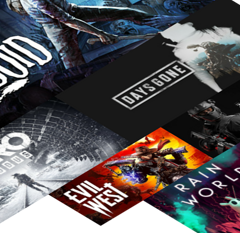
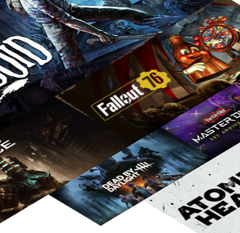
Finished Carousel/Fixed Navbar to bottom
Added images and gradients to carousel. Also touched up bottom navbar and added text to the browse steam menu

diff --git a/src/app/Carousels/carouselone/carouselone.component.html b/src/app/Carousels/carouselone/carouselone.component.html
@@ -1,93 +1,93 @@
-<div id="carouselExampleControls" class="carousel slide" data-ride="carousel">
+<div id="carouselExampleControls" class="carousel slide" data-ride="carousel" style="margin-bottom: 500px;">
     <div class="carousel-inner">
       <div class="carousel-item active" >
-        <button class="btn red-gradient first-inner border-0">
+        <button class="btn first-inner border-0" style="background-image: linear-gradient(0deg,#840304,transparent);">
+            Anime
+            <img class="d-block w-100" src="assets/anime.png" >
+        </button>
+        <button class="btn second-inner border-0" style="background-image: linear-gradient(0deg,#010189,transparent);">
+            Puzzle
+            <img class="d-block w-100" src="assets/puzzle.png">
+        </button>
+        <button class="btn third-inner border-0" style="background-image: linear-gradient(0deg,#b6850b,transparent);">
+          Free to Play
+          <img class="d-block w-100" src="assets/freetoplay.png" >
+        </button>
+        <button class="btn fourth-inner border-0" style="background-image: linear-gradient(0deg,#006401,transparent);">
+          City & Settlement
+          <img class="d-block w-100" src="assets/strategy_cities_settlements.png">
+        </button>
+      </div>
+      <div class="carousel-item" >
+        <button class="btn first-inner border-0" style="background-image: linear-gradient(0deg,#018788,transparent);">
+            Role-Playing
+            <img class="d-block w-100" src="assets/rpg.png">
+        </button>
+        <button class="btn second-inner border-0" style="background-image: linear-gradient(0deg,#840386 ,transparent);">
+            Sci-fi & Cyberpunk
+            <img class="d-block w-100" src="assets/science_fiction.png">
+        </button>
+        <button class="btn third-inner border-0" style="background-image: linear-gradient(0deg,#da8504 ,transparent);">
+          Survival
+          <img class="d-block w-100" src="assets/survival.png">
+        </button>
+        <button class="btn fourth-inner border-0" style="background-image: linear-gradient(0deg,#820304,transparent);">
+          Story-Rich
+          <img class="d-block w-100" src="assets/story_rich.png">
+        </button>
+      </div>
+      <div class="carousel-item" >
+        <button class="btn first-inner border-0" style="background-image: linear-gradient(0deg, #020385, transparent);">
+            Horror
+            <img class="d-block w-100" src="assets/horror.png">
+        </button>
+        <button class="btn second-inner border-0" style="background-image: linear-gradient(0deg, #AD800f, transparent);">
+            Virtual Reality Titles
+            <img class="d-block w-100" src="assets/vr.png">
+        </button>
+        <button class="btn third-inner border-0" style="background-image: linear-gradient(0deg, #020385, transparent);">
+          All Sports
+          <img class="d-block w-100" src="assets/sports.png">
+        </button>
+        <button class="btn fourth-inner border-0" style="background-image: linear-gradient(0deg, #026004, transparent);">
+          Strategy
+          <img class="d-block w-100" src="assets/strategy.png">
+        </button>
+      </div>
+      <div class="carousel-item" >
+        <button class="btn first-inner border-0" style="background-image: linear-gradient(0deg, #890189, transparent);">
+            Great On Deck
+            <img class="d-block w-100" src="assets/greatondeck.png">
+        </button>
+        <button class="btn second-inner border-0" style="background-image: linear-gradient(0deg, #e18802, transparent);">
             Simulation
-            <img class="d-block w-100" src="assets/">
+            <img class="d-block w-100" src="assets/simulation.png">
         </button>
-        <button class="btn blue-gradient second-inner border-0">
-            Rogue-Like
-            <img class="d-block w-100" src="assets/">
+        <button class="btn third-inner border-0" style="background-image: linear-gradient(0deg, #860102, transparent);">
+          Rogue-Like
+          <img class="d-block w-100" src="assets/rogue_like_rogue_lite.png">
         </button>
-        <button class="btn yellow-gradient third-inner border-0">
-          Co-operative
-          <img class="d-block w-100" src="assets/">
-        </button>
-        <button class="btn green-gradient fourth-inner border-0">
-          Horror
-          <img class="d-block w-100" src="assets/">
+        <button class="btn fourth-inner border-0" style="background-image: linear-gradient(0deg, #010286, transparent);">
+          Adventure
+          <img class="d-block w-100" src="assets/adventure.png">
         </button>
       </div>
       <div class="carousel-item" >
-        <button class="btn first-inner">
-            Horror
-            <img class="d-block w-100" src="assets/">
+        <button class="btn first-inner border-0" style="background-image: linear-gradient(0deg, #B5840B, transparent);">
+            Fighting
+            <img class="d-block w-100" src="assets/fighting_martial_arts.png">
         </button>
-        <button class="btn second-inner">
-            Visual Novel
-            <img class="d-block w-100" src="assets/">
+        <button class="btn second-inner border-0" style="background-image: linear-gradient(0deg, #016203, transparent);">
+            Open World
+            <img class="d-block w-100" src="assets/exploration_open_world.png" >
         </button>
-        <button class="btn third-inner">
-          All Sports
-          <img class="d-block w-100" src="assets/">
+        <button class="btn third-inner border-0" style="background-image: linear-gradient(0deg, #018687, transparent);">
+          Action
+          <img class="d-block w-100" src="assets/action.png">
         </button>
-        <button class="btn fourth-inner">
-          Puzzle
-          <img class="d-block w-100" src="assets/">
-        </button>
-      </div>
-      <div class="carousel-item" >
-        <button class="btn first-inner">
-            Horror
-            <img class="d-block w-100" src="assets/">
-        </button>
-        <button class="btn second-inner">
-            Visual Novel
-            <img class="d-block w-100" src="assets/">
-        </button>
-        <button class="btn third-inner">
-          All Sports
-          <img class="d-block w-100" src="assets/">
-        </button>
-        <button class="btn fourth-inner">
-          Puzzle
-          <img class="d-block w-100" src="assets/">
-        </button>
-      </div>
-      <div class="carousel-item" >
-        <button class="btn first-inner">
-            Horror
-            <img class="d-block w-100" src="assets/">
-        </button>
-        <button class="btn second-inner">
-            Visual Novel
-            <img class="d-block w-100" src="assets/">
-        </button>
-        <button class="btn third-inner">
-          All Sports
-          <img class="d-block w-100" src="assets/">
-        </button>
-        <button class="btn fourth-inner">
-          Puzzle
-          <img class="d-block w-100" src="assets/">
-        </button>
-      </div>
-      <div class="carousel-item" >
-        <button class="btn first-inner">
-            Horror
-            <img class="d-block w-100" src="assets/">
-        </button>
-        <button class="btn second-inner">
-            Visual Novel
-            <img class="d-block w-100" src="assets/">
-        </button>
-        <button class="btn third-inner">
-          All Sports
-          <img class="d-block w-100" src="assets/">
-        </button>
-        <button class="btn fourth-inner">
-          Puzzle
-          <img class="d-block w-100" src="assets/">
+        <button class="btn fourth-inner border-0" style="background-image: linear-gradient(0deg, #850287, transparent);">
+          Co-Operative
+          <img class="d-block w-100" src="assets/multiplayer_coop.png">
         </button>
       </div>
     </div>

diff --git a/src/app/Carousels/carouselone/carouselone.component.css b/src/app/Carousels/carouselone/carouselone.component.css
@@ -3,26 +3,9 @@
     width: 225px;
 }
 
-.red-gradient {
-    background-image: linear-gradient(0deg, #840304, transparent);
-}
-
-.blue-gradient {
-    background-image: linear-gradient(0deg, #010189, transparent);
-}
-
-.yellow-gradient {
-    background-image: linear-gradient(0deg, #b6850b, transparent);
-}
-
-.green-gradient {
-    background-image: linear-gradient(0deg, #006401, transparent);
-}
-
-
 .first-inner {
     margin-top: 100px;
-    margin-left: 297px;
+    margin-left: 17%;
     margin-right: 5px;
     height: 225px;
     width: 225px;
@@ -49,12 +32,4 @@
     margin-left: 5px;
     height: 225px;
     width: 225px;
-}
-
-.prev-margin {
-    margin-left: 107px;
-}
-
-.next-margin {
-    margin-right: 148px;
 }

diff --git a/src/app/BrowseMenu/browse-menu/browse-menu.component.html b/src/app/BrowseMenu/browse-menu/browse-menu.component.html
@@ -1,4 +1,5 @@
-<div class="btn-group" role="group" aria-label="" style="width: 820.0001px; height: 50px;">
+<div style="margin-left: 17%; color: aliceblue;"><br> BROWSE STEAM</div>
+<div class="btn-group" role="group" aria-label="" style="width: 820.0001px; height: 50px; margin-left: 17%;">
     <button type="button" class="btn button-style border-0" style="margin:5px; height: 50px; width:200px;">New Releases</button>
     <button type="button" class="btn button-style border-0" style="margin:5px; height: 50px; width:200px" >Specials</button>
     <button type="button" class="btn button-style border-0" style="margin:5px; height: 50px; width:200px">Free Games</button>

diff --git a/src/app/TopNavigation/top-navigation-two/top-navigation-two.component.html b/src/app/TopNavigation/top-navigation-two/top-navigation-two.component.html
@@ -1,4 +1,4 @@
-    <nav class="navbar navbarprop" style="margin-left: 17%;">
+    <nav class="navbar navbarprop" style="margin-left: 17%; margin-top: 0px;">
         <div class="btn-group zero-margin" role="group">
         <div class="dropdown">
             <button class="btn button-color button-hover dropdown store-size border-0" type="button" data-bs-toggle="dropdown" aria-expanded="false">

diff --git a/src/app/BottomNavigation/bottom-nav-bar/bottom-nav-bar.component.html b/src/app/BottomNavigation/bottom-nav-bar/bottom-nav-bar.component.html
@@ -1,4 +1,4 @@
-<nav class="navbar fixed-bottom navbar-nav" style="background-color: #171A21; height: 160px;">
+<nav class="navbar navbar-nav" style="background-color: #171A21; height: 160px; margin-bottom: 0% !important;">
     <div class="block1">
         <a class="navbar-brand" href="#">
             <img src="assets/footerLogo_valve_new.png" width="88" height="30" alt="">

diff --git a/src/app/SideMenu/side-menu/side-menu.component.html b/src/app/SideMenu/side-menu/side-menu.component.html
@@ -1,4 +1,4 @@
-<div class="d-flex flex-column p-3 menu-format" style="width: 17%;">
+<div class="d-flex flex-column p-3 menu-format" style="width: 17%; margin: 0%;">
     <button class="btn">
         <img class="image-format" src="assets/steamcards_promo_02.png">
     </button>

diff --git a/src/app/TopNavigation/top-nav-bar/top-nav-bar.component.css b/src/app/TopNavigation/top-nav-bar/top-nav-bar.component.css
@@ -7,12 +7,6 @@
 }
 
 .image-padding {
-    margin-left: 20px;
+    margin-left: 17%;
     margin-right: 0px;
-}
-
-.button-padding {
-    margin-right: 1020px;
-    margin-left: 0px;
-
 }
